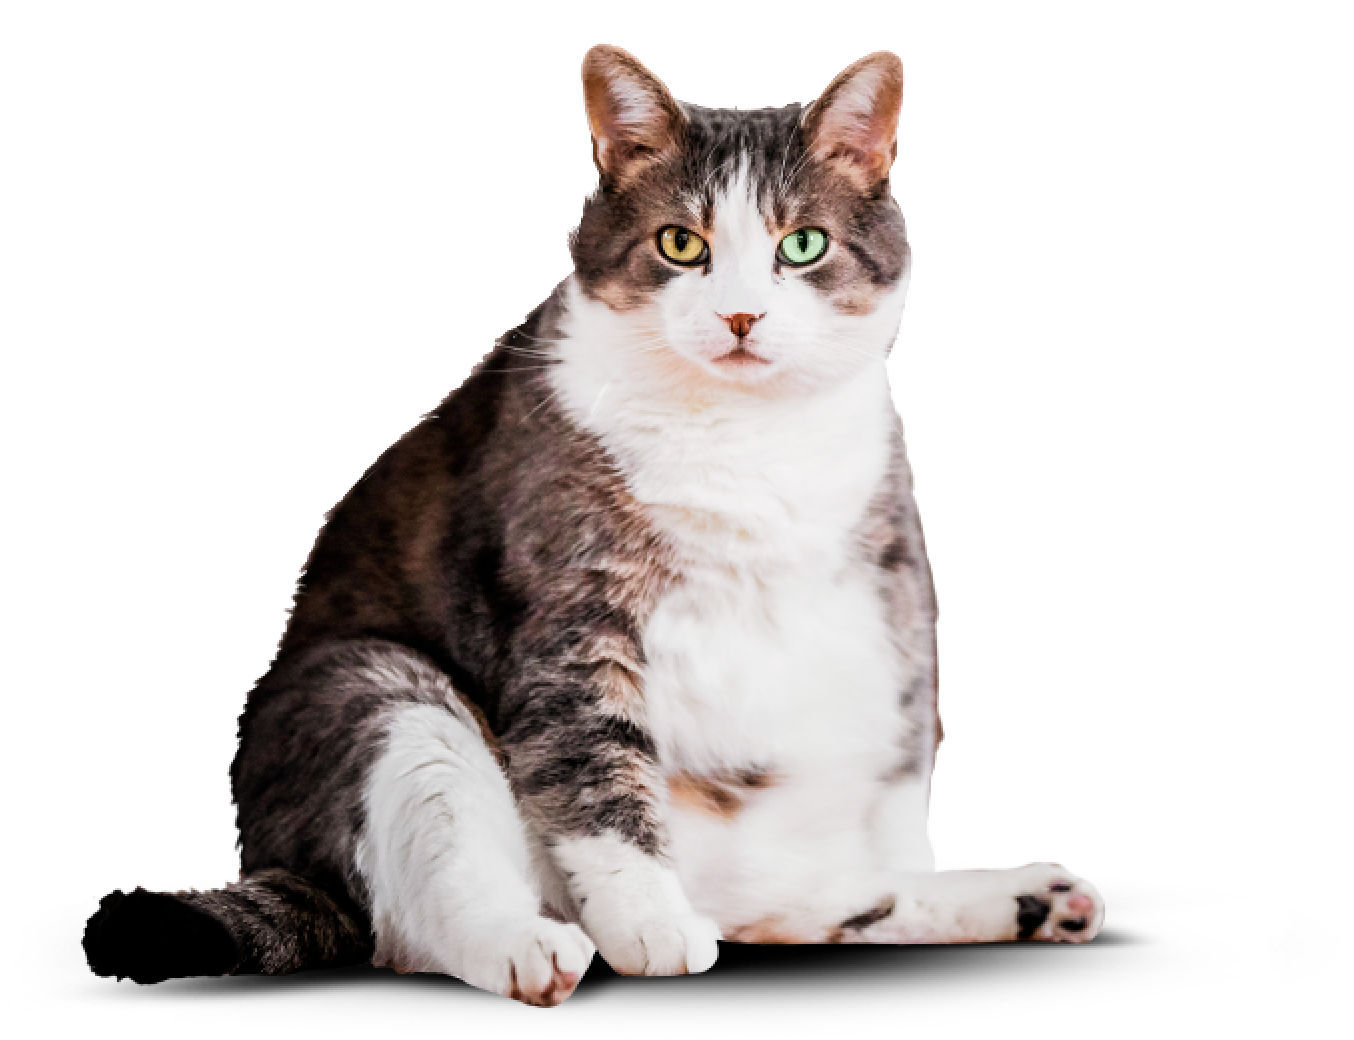
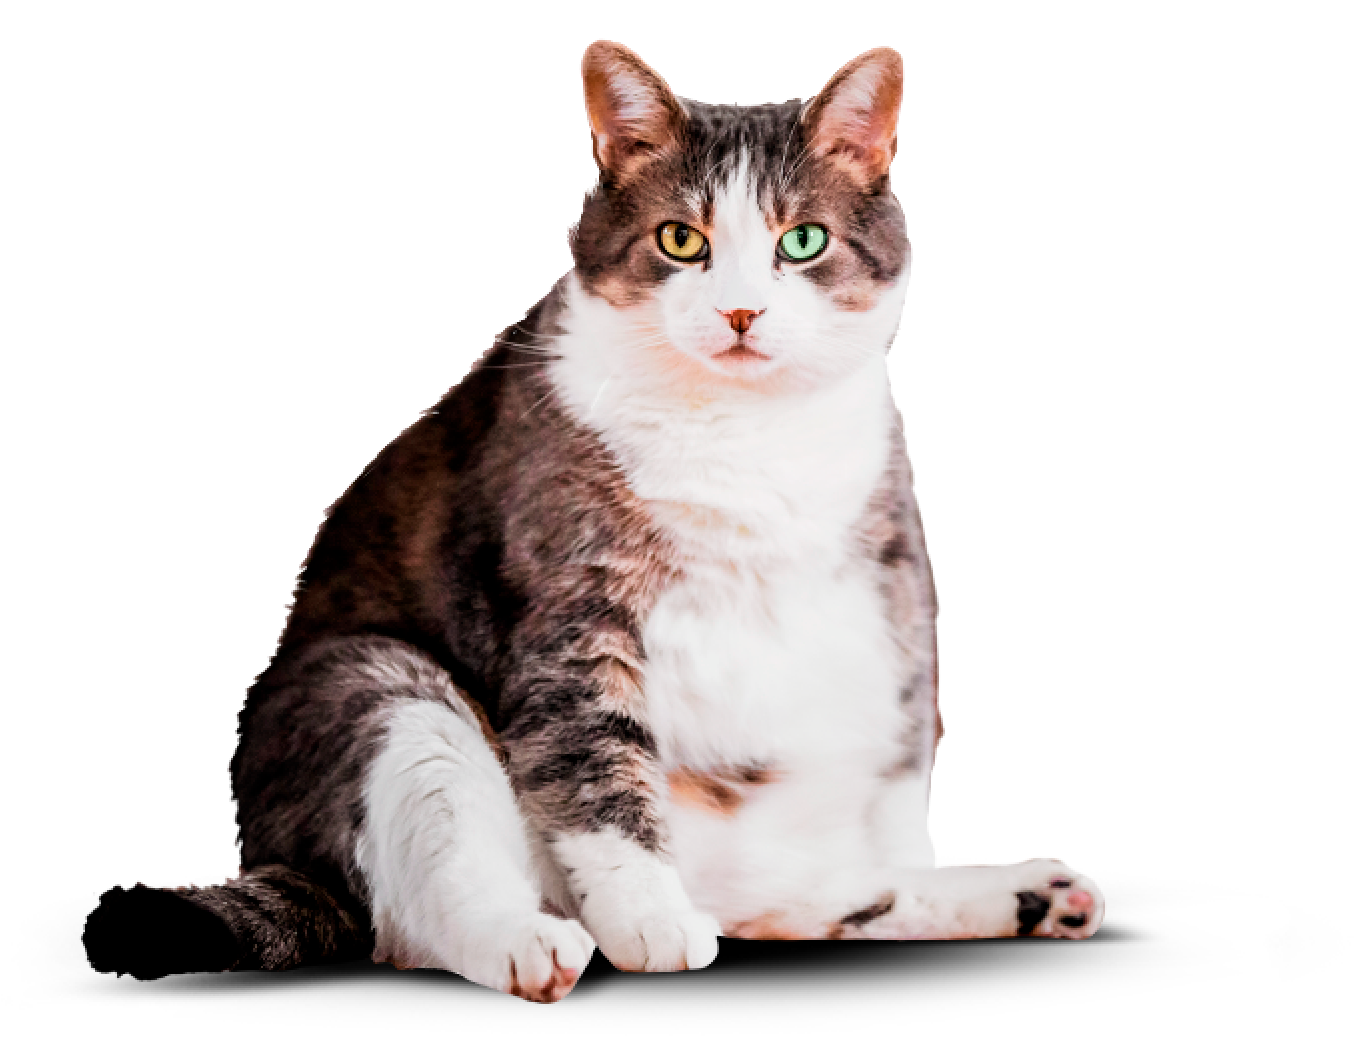
Меняет js и изображения для переключателя котов на главной

diff --git a/source/js/script.js b/source/js/script.js
@@ -15,89 +15,76 @@ navButtonToggle.addEventListener('click', () => {
   pageHeader.classList.toggle('page-header--closed');
 });
 
-//-- Ползунок-переключатель состояния кота -- //
+//-- простой слайдер по клику - переключатель состояния кота -- //
 
-//получаем координаты ползунка
-function getCoords(elem) {
-  // (1)
-  let box = elem.getBoundingClientRect();
-
-  let body = document.body;
-  let docEl = document.documentElement;
-
-  // (2)
-  let scrollTop = window.pageYOffset || docEl.scrollTop || body.scrollTop;
-  let scrollLeft = window.pageXOffset || docEl.scrollLeft || body.scrollLeft;
-
-  // (3)
-  let clientTop = docEl.clientTop || body.clientTop || 0;
-  let clientLeft = docEl.clientLeft || body.clientLeft || 0;
-
-  // (4)
-  let top = box.top + scrollTop - clientTop;
-  let left = box.left + scrollLeft - clientLeft;
-
-  return {
-    top: top,
-    left: left
-  };
-}
-
-// меняем местоположение ползунка
-const availableScreenWidth = window.screen.availWidth;
-let circleEl = document.getElementById('circle');
-let parent = document.getElementById('circle_parent');
-let parentParams = getCoords(parent);
 let slimCat = document.getElementById('slimcat');
+let mediumCat = document.getElementById('medium');
 let fatCat = document.getElementById('fatcat');
 let beforeToggle = document.getElementById('before');
 let afterToggle = document.getElementById('after');
+let circleEl = document.getElementById('circle');
 
-let listener = function(e) {
-  let offset = 0;
-  let circlePosition =  e.screenX;
-  let circleWidth =  circleEl.offsetWidth/2;
-  let sliderWidth = parent.offsetWidth;
-  let minPoint = parentParams.left;
-  let maxPoint = parentParams.left + sliderWidth;
+beforeToggle.addEventListener('click', () => {
+  afterToggle.classList.remove('range__button--disabled');
 
-  if(circlePosition > minPoint){
-    offset = ((circlePosition - minPoint)/sliderWidth ) * 100;
+  if (fatCat.classList.contains('range__picture--noshow')) {
+    if (mediumCat.classList.contains('range__picture--show')) {
+      mediumCat.classList.toggle('range__picture--noshow');
+      mediumCat.classList.toggle('range__picture--show');
+      if (circleEl.classList.contains('range__toggle--medium')) {
+        circleEl.classList.add('range__toggle--after');
+      }
+      circleEl.classList.toggle('range__toggle--medium');
+      fatCat.classList.add('range__picture--show');
+      fatCat.classList.remove('range__picture--noshow');
+    }
+
+    if (slimCat.classList.contains('range__picture--show')) {
+      slimCat.classList.add('range__picture--noshow');
+      slimCat.classList.remove('range__picture--show');
+      if (circleEl.classList.contains('range__toggle--medium')) {
+        circleEl.classList.add('range__toggle--after');
+      }
+      circleEl.classList.toggle('range__toggle--medium');
+      mediumCat.classList.toggle('range__picture--show');
+      mediumCat.classList.toggle('range__picture--noshow');
+    }
   }
 
-  if(circlePosition > maxPoint ){
-    offset = 100;
+  if (fatCat.classList.contains('range__picture--show')) {
+    beforeToggle.classList.add('range__button--disabled');
   }
 
-  offset = Math.round(offset);
-  fatCat.style.width = offset+"%";
-  slimCat.style.width = (100-offset)+"%";
+  circleEl.classList.remove('range__toggle--after');
+});
 
-  circleEl.style.left = "calc("+offset + "% - "+ circleWidth +"px";
-};
+afterToggle.addEventListener('click', () => {
+  beforeToggle.classList.remove('range__button--disabled');
 
-if (availableScreenWidth > 768) { // на таблет и пк - бегунок по мыши
-  circle.addEventListener('mousedown', e => {
-    document.addEventListener('mousemove', listener);
-  });
+  if (slimCat.classList.contains('range__picture--noshow')) {
+    if (mediumCat.classList.contains('range__picture--show')) {
+      mediumCat.classList.toggle('range__picture--noshow');
+      mediumCat.classList.toggle('range__picture--show');
+      if (circleEl.classList.contains('range__toggle--medium')) {
+        circleEl.classList.add('range__toggle--after');
+      }
+      circleEl.classList.toggle('range__toggle--medium');
+      slimCat.classList.add('range__picture--show');
+      slimCat.classList.remove('range__picture--noshow');
+    }
 
-  document.addEventListener('mouseup', e => {
-    document.removeEventListener('mousemove', listener);
-  });
-} else { //только на мобильном - простой слайдер по клику
-  beforeToggle.addEventListener('touchend', () => {
-    slimCat.classList.remove('range__slimcat--show');
-    slimCat.classList.add('range__slimcat--noshow');
-    fatCat.classList.remove('range__fatcat--noshow');
-    fatCat.classList.add('range__fatcat--show');
-    circleEl.classList.remove('range__toggle--after');
-  });
-
-  afterToggle.addEventListener('touchend', () => {
-    slimCat.classList.remove('range__slimcat--noshow');
-    slimCat.classList.add('range__slimcat--show');
-    fatCat.classList.remove('range__fatcat--show');
-    fatCat.classList.add('range__fatcat--noshow');
-    circleEl.classList.add('range__toggle--after');
-  });
-}
+    if (fatCat.classList.contains('range__picture--show')) {
+      fatCat.classList.add('range__picture--noshow');
+      fatCat.classList.remove('range__picture--show');
+      mediumCat.classList.toggle('range__picture--show');
+      if (circleEl.classList.contains('range__toggle--medium')) {
+        circleEl.classList.add('range__toggle--after');
+      }
+      circleEl.classList.toggle('range__toggle--medium');
+      mediumCat.classList.toggle('range__picture--noshow');
+    }
+  }
+  if (slimCat.classList.contains('range__picture--show')) {
+    afterToggle.classList.add('range__button--disabled');
+  }
+});

diff --git a/source/index.html b/source/index.html
@@ -165,30 +165,29 @@
         </div>
         <div class="range">
           <div class="range__wrapper">
-            <div class="range__picture">
-              <div class="range__placeholder">
-                <div class="range__fatcat range__fatcat--show" id="fatcat"></div>
-                <div class="range__slimcat range__slimcat--noshow" id="slimcat"></div>
-                <img src="img/cat-placeholder.png" alt="Фон-заглушка для котов">
-              </div>
+            <div class="range__placeholder">
+              <picture class="range__picture range__picture--fatcat range__picture--show" id="fatcat">
+                <source type="image/webp" srcset="img/cat-fat.webp 1x, img/cat-fat-@2x.webp 2x">
+                <img class="range__image" src="img/cat-fat.png" srcset="img/cat-fat.png 1x, img/cat-fat-@2x.png 2x" alt="Кот до программы Cat Energy">
+              </picture>
+              <picture class="range__picture range__picture--medium range__picture--noshow" id="medium">
+                <source type="image/webp" srcset="img/cat_medium.webp 1x, img/cat_medium-@2x.webp 2x">
+                <img class="range__image" src="img/cat_medium.png" srcset="img/cat_medium.png 1x, img/cat_medium-@2x.png 2x" alt="Кот с демонстрацией до\после">
+              </picture>
+              <picture class="range__picture range__picture--slimcat range__picture--noshow" id="slimcat">
+                <source type="image/webp" srcset="img/cat-skinny.webp 1x, img/cat-skinny-@2x.webp 2x">
+                <img class="range__image" src="img/cat-skinny.png" srcset="img/cat-skinny.png 1x, img/cat-skinny-@2x.png 2x" alt="Кот после программы Cat Energy">
+              </picture>
             </div>
-            <!--<picture>-->
-            <!--  <source type="image/webp" media="(min-width:1440px)" srcset="img/desktop/image_cat_desktop.webp 1x, img/desktop/image_cat_desktop_@2x.webp 2x">-->
-            <!--  <source type="image/webp" media="(min-width:768px)" srcset="img/tablet/image_cat_tablet.webp 1x, img/tablet/image_cat_tablet@2x.webp 2x">-->
-            <!--  <source type="image/webp" srcset="img/tablet/image_cat_tablet.webp 1x, img/tablet/image_cat_tablet@2x.webp 2x">-->
 
-            <!--  <source media="(min-width:1440px)" srcset="img/desktop/image_cat_desktop.png 1x, img/desktop/image_cat_desktop_@2x.png 2x">-->
-            <!--  <source media="(min-width:768px)" srcset="img/tablet/image_cat_tablet.png 1x, img/tablet/image_cat_tablet@2x.png 2x">-->
-            <!--  <img class="range__image" src="img/mobile/before-mobile_1.png" srcset="img/mobile/before-mobile_1.png 1x, img/mobile/before-mobile@2x.png 2x" alt="Кот с демонстрацией до\после">-->
-            <!--</picture>-->
             <div class="range__control">
-              <button class="range__text" type="button" id="before">
+              <button class="range__button" type="button" id="before">
                 Было
               </button>
               <div class="range__input" id="circle_parent">
                 <button class="range__toggle" type="button" aria-label="Ползунок-переключатель состояния кота" id="circle"></button>
               </div>
-              <button class="range__text" type="button" id="after">
+              <button class="range__button" type="button" id="after">
                 Стало
               </button>
             </div>

diff --git a/source/sass/components/range.scss b/source/sass/components/range.scss
@@ -12,10 +12,16 @@
 }
 
 .range__wrapper {
+  margin-bottom: 27px;
+  min-height: 232px;
+  text-align: center;
+
   @media (min-width: $tablet-width) {
     display: grid;
     grid-template-columns: 708px;
     justify-content: center;
+    margin-bottom: 100px;
+    position: relative;
   }
 
   @media (min-width: $desktop-content-width) {
@@ -26,20 +32,12 @@
 }
 
 .range__picture {
-  margin-bottom: 27px;
-  min-height: 232px;
-  text-align: center;
-
-  @media (min-width: $tablet-width) {
-    display: block;
-    margin-bottom: 100px;
-    position: relative;
-  }
-}
-
-.range__placeholder {
   display: block;
   max-width: 280px;
+
+  &--noshow {
+    display: none;
+  }
 
   @media (min-width: $tablet-width) {
     max-width: 700px;
@@ -50,61 +48,18 @@
   }
 }
 
-.range__fatcat {
-  position: absolute;
-  width: 50%;
-  min-height: 230px;
-  //top: 0;
-  background-image: url("../img/cat-fat.webp");
-  background-size: cover;
-
-  @media (min-resolution: 2dppx) {
-    background-image: url("../img/cat-fat-@2x.webp");
-  }
-}
-
-.range__slimcat {
-  position: absolute;
-  width: 50%;
-  min-height: 230px;
-  background-image: url("../img/cat-skinny.webp");
-  background-size: cover;
-  transform: scale(-1, 1);
-
-  @media (min-resolution: 2dppx) {
-    background-image: url("../img/cat-skinny-@2x.webp");
-  }
-
-  @media (min-width: $tablet-width) {
-    top: 0;
-    right: 0;
-  }
-}
-
-.range__fatcat,
-.range__slimcat {
-  @media (max-width: $mobile-width-only) {
-    background-position: center;
-
-    &--show {
-      display: block;
-    }
-
-    &--noshow {
-      display: none;
-    }
-  }
-
-  @media (min-width: $tablet-width) {
-    height: 100%;
-  }
-}
-
 .range__image {
   min-height: 232px;
 }
 
-.range__text {
+.range__placeholder {
+  display: flex;
+  justify-content: center;
+  position: relative;
+  top: -58px;
+}
+
+.range__button {
   display: block;
   border: none;
   background-color: inherit;
@@ -126,10 +81,16 @@
     padding-left: 16px;
   }
 
-  @media (min-width: $tablet-width) {
-    font-size: $font_size_middle;
+  &--disabled {
     pointer-events: none;
     cursor: default;
+    opacity: 0.3;
+  }
+
+  @media (min-width: $tablet-width) {
+    font-size: $font_size_middle;
+    //pointer-events: none;
+    //cursor: default;
     //border-bottom: 1px dotted $color_frames_grey
   }
 }
@@ -183,10 +144,15 @@
   border-radius: 6px;
   position: relative;
   top: -12px;
+  left: -20px;
 
   @media (max-width: $mobile-width-only) {
+    &--medium {
+      left: 0;
+    }
+
     &--after {
-      left: 37px;
+      left: 21px;
     }
   }
 
